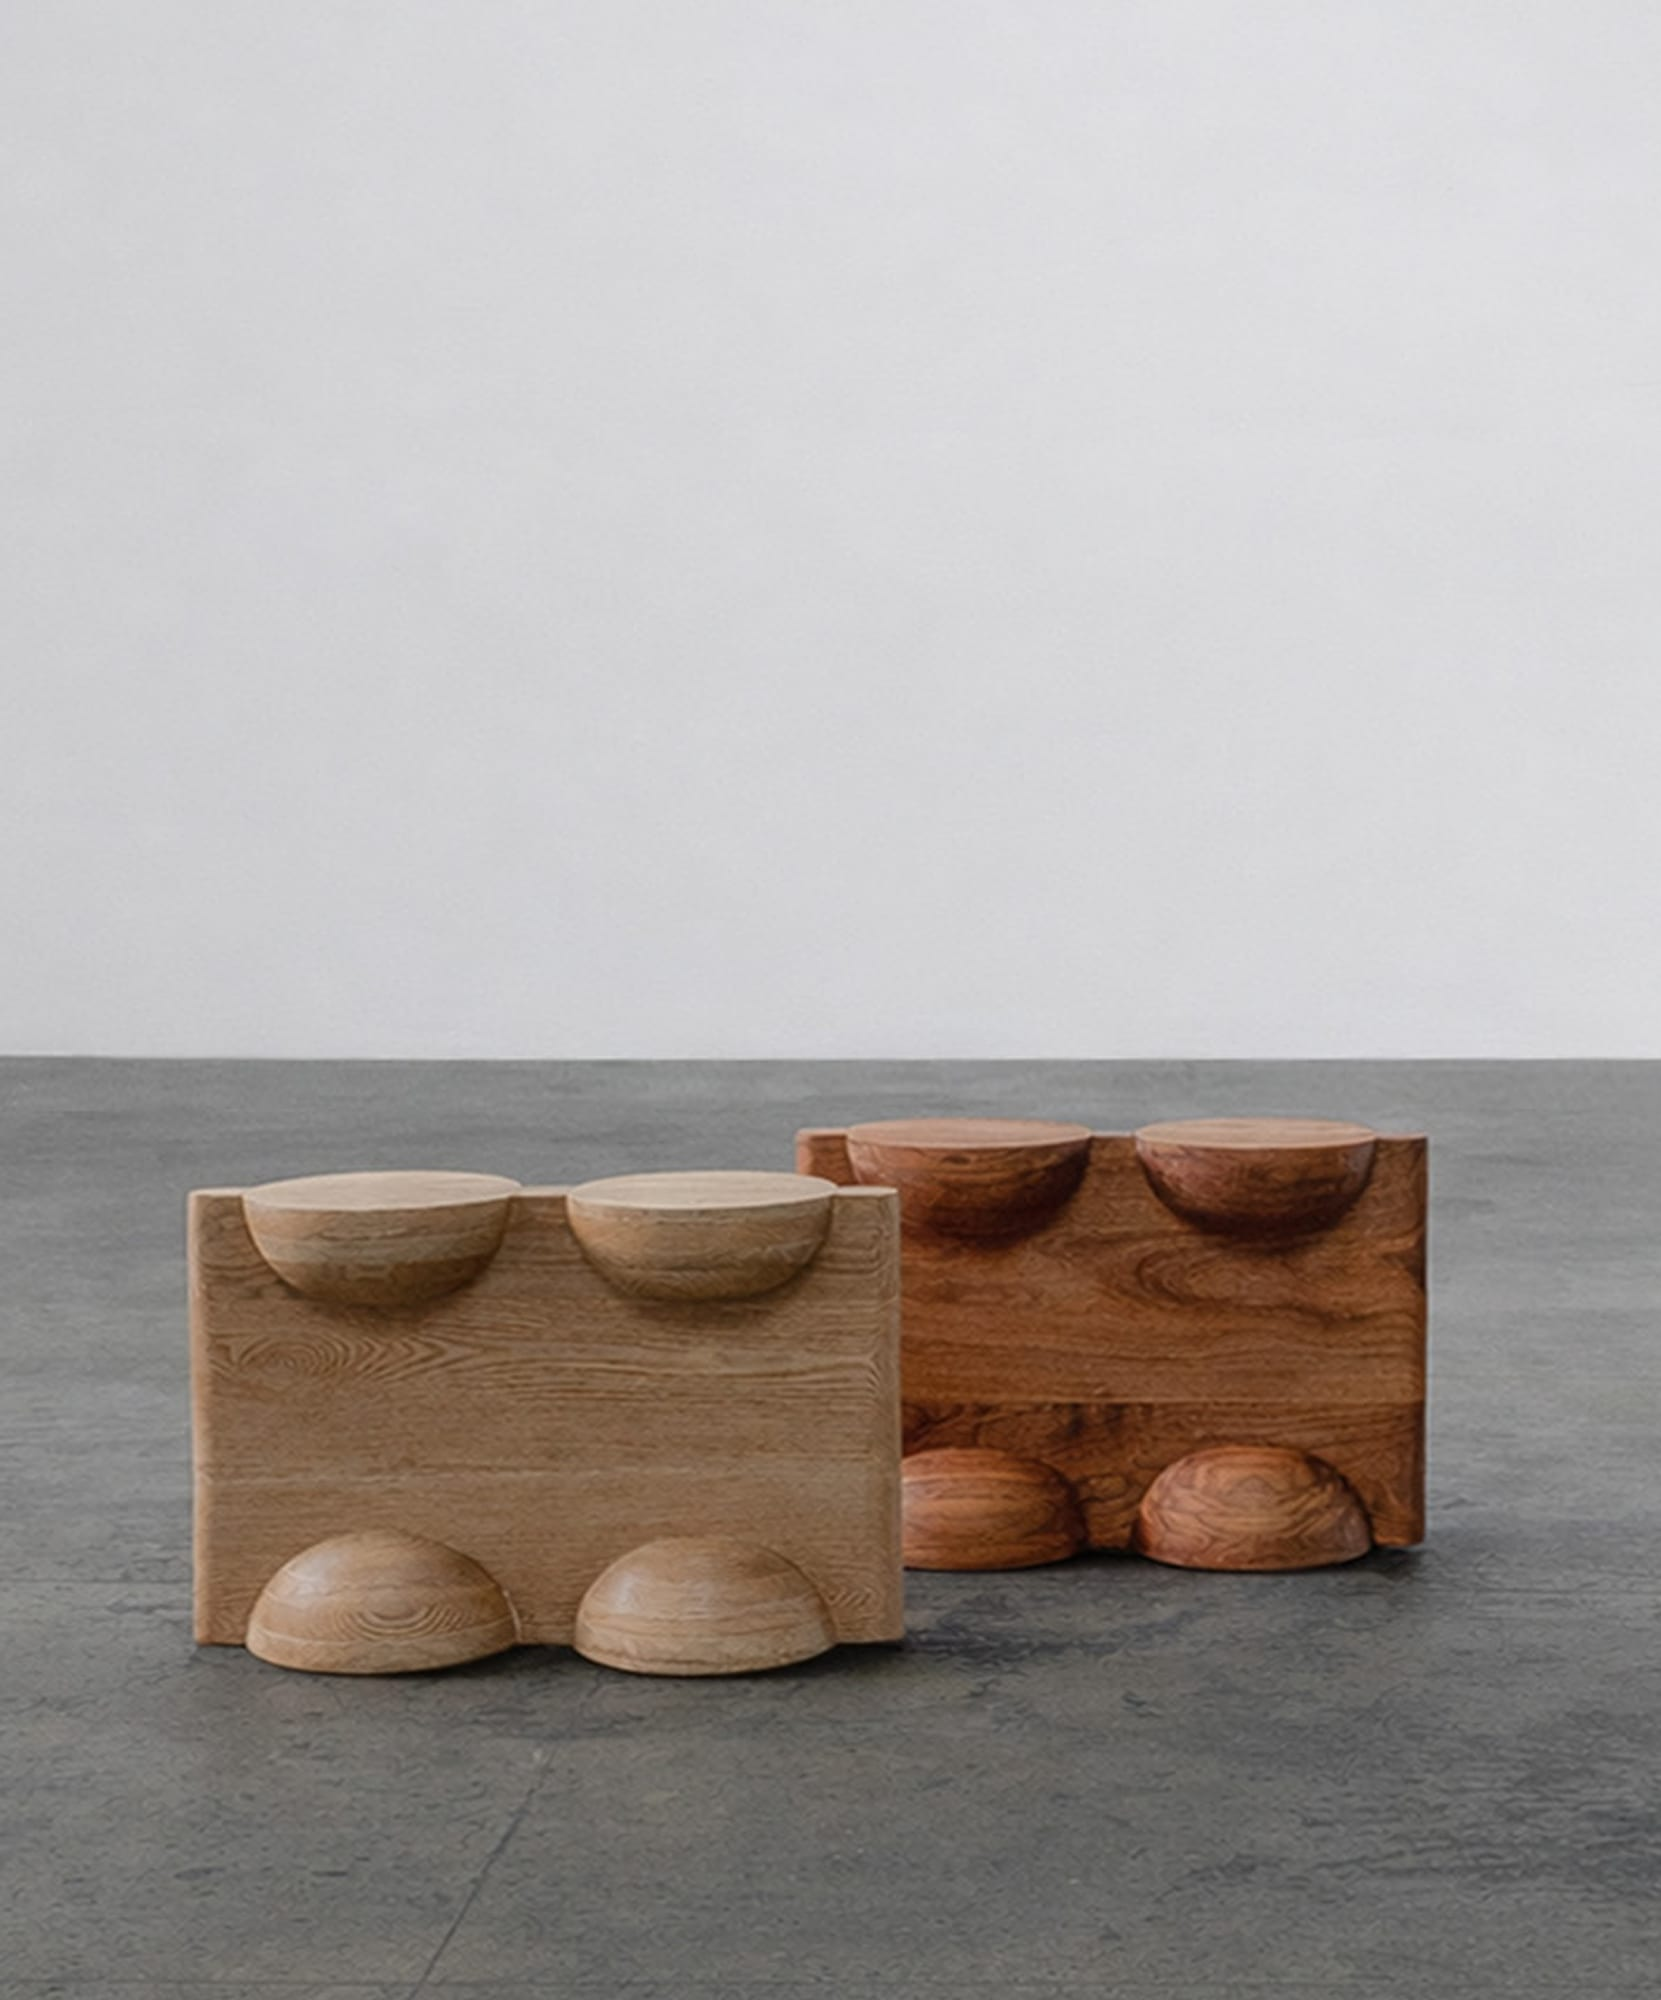
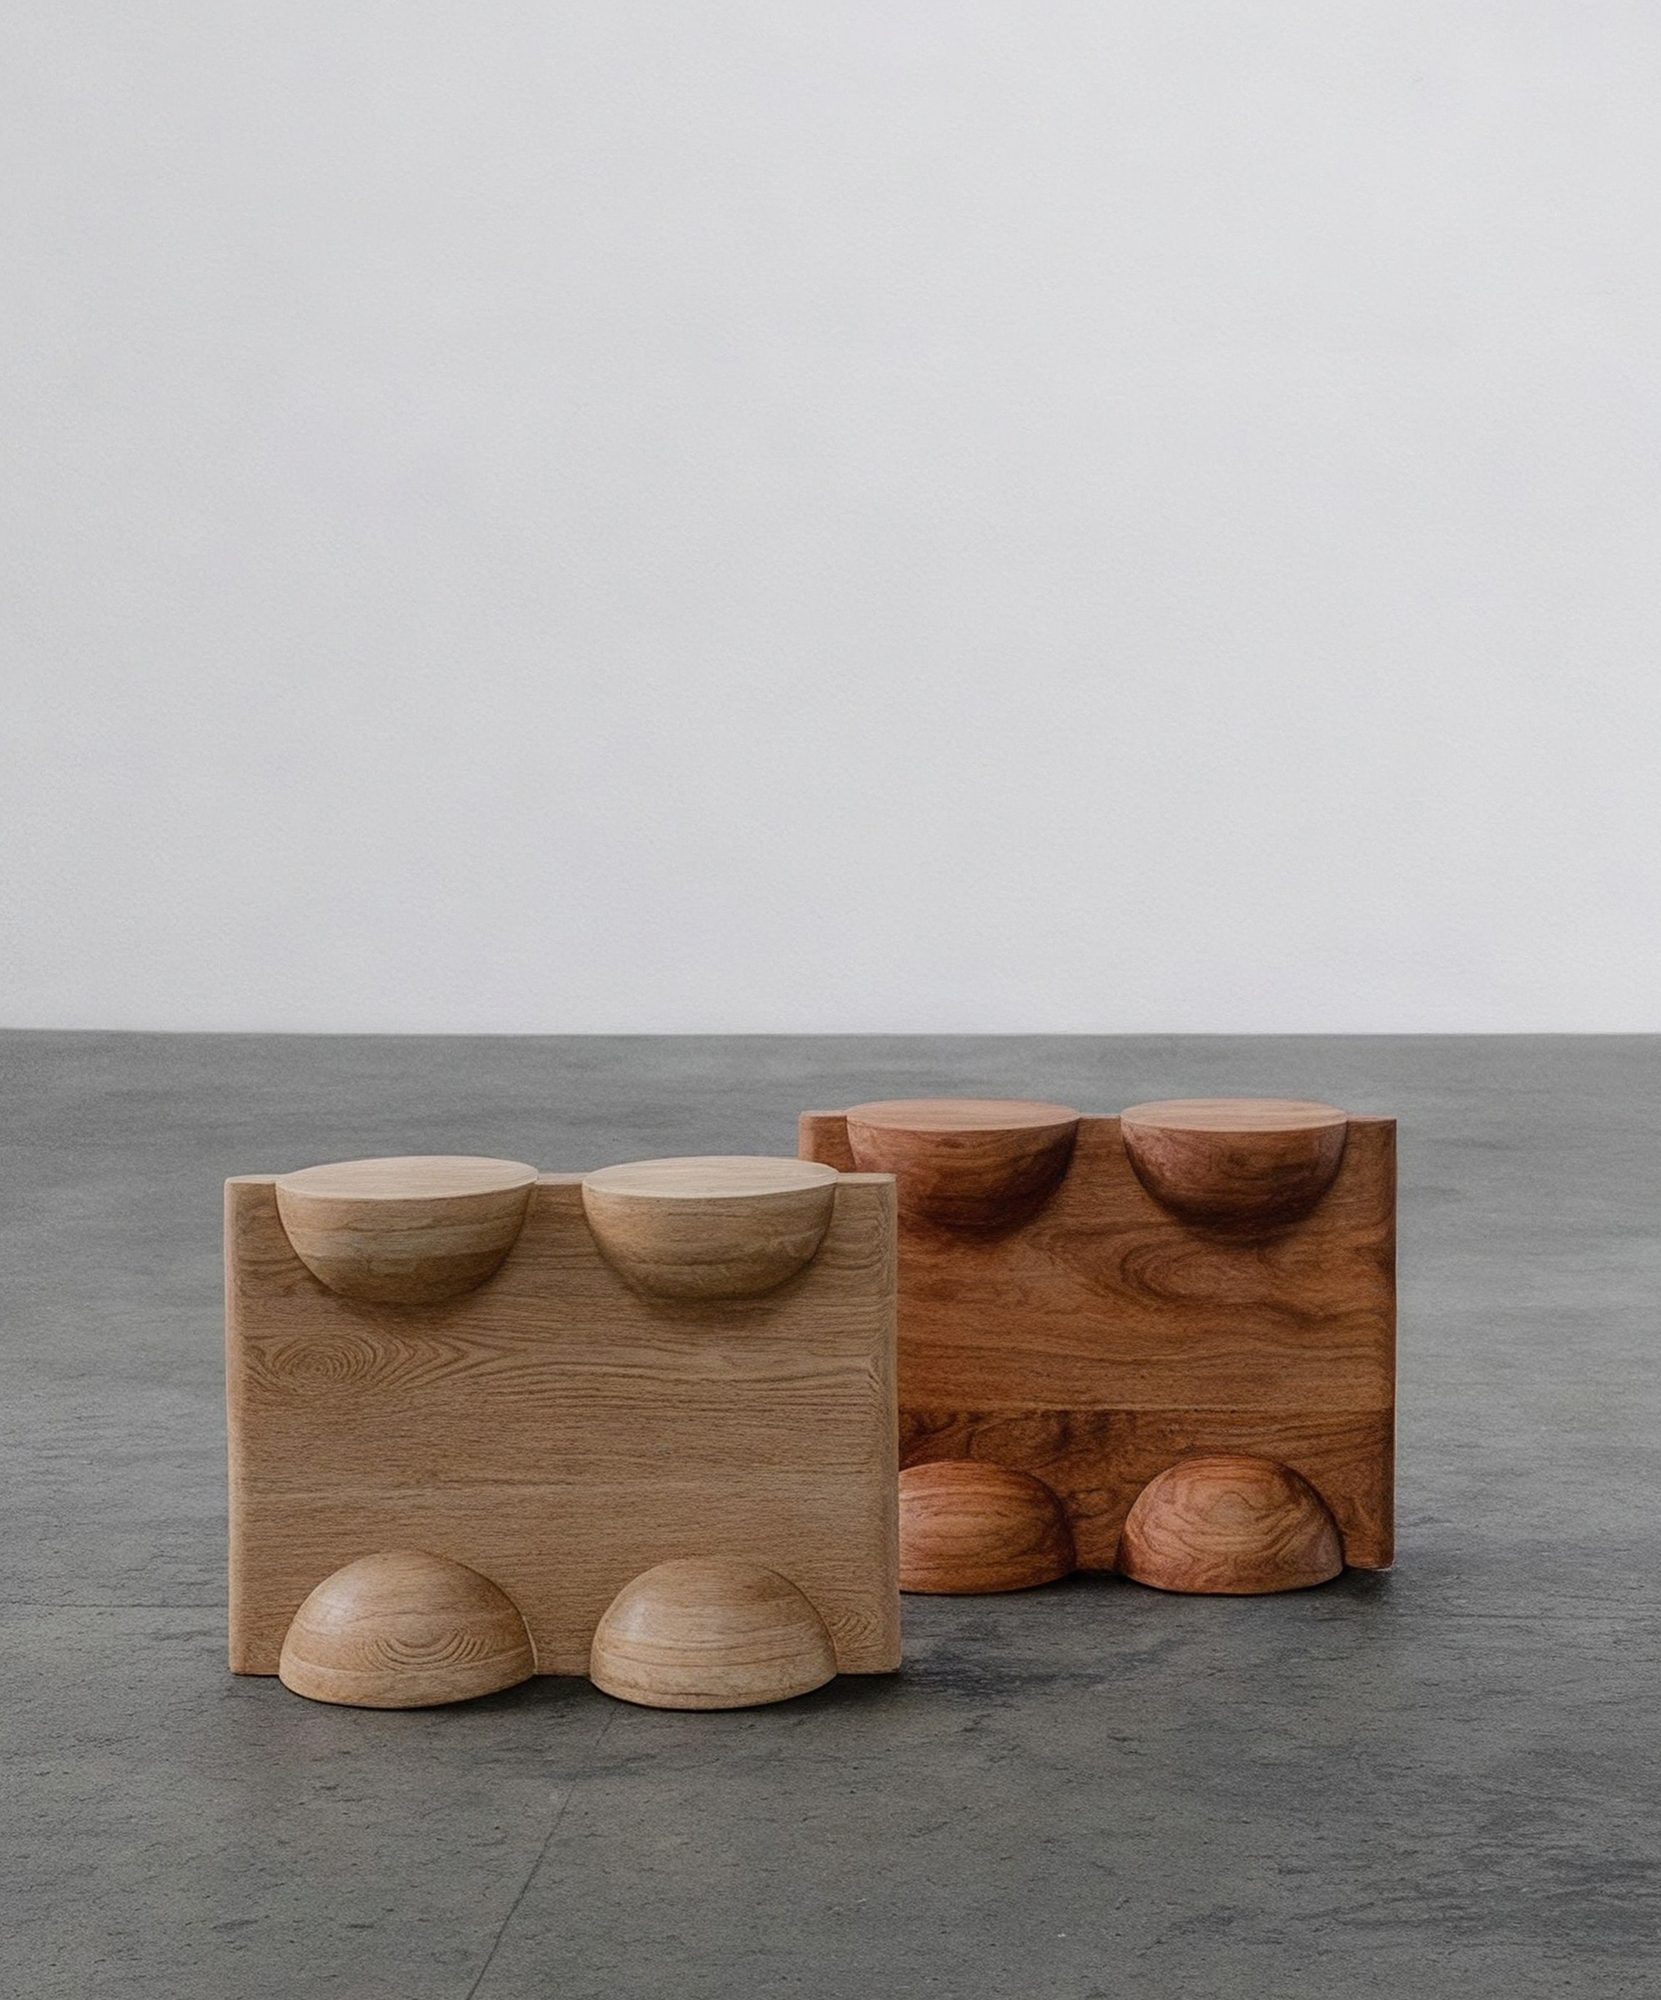
Apply latest photo adjustments: BLEO stool II 6, BLEO coffee table 9, IXIA 2
- New framings for BLEO stool II 6 and BLEO coffee table 9 (2000px tall,
  baseline JPEG)
- IXIA desk: gallery now portada + the new photo 2 (replaces 4, same shot)

diff --git a/src/content/piezas/ixia-desk.md b/src/content/piezas/ixia-desk.md
@@ -5,7 +5,7 @@ portada: /images/Ixia desk/portada.jpg
 portadaHover: /images/Ixia desk/portada-hover.jpg
 galeria:
   - /images/Ixia desk/portada.jpg
-  - /images/Ixia desk/4.jpg
+  - /images/Ixia desk/2.jpg
 dimensiones: 152 x 76 x 76cm
 variantes:
   - nombre: Red Oak|Black finish
